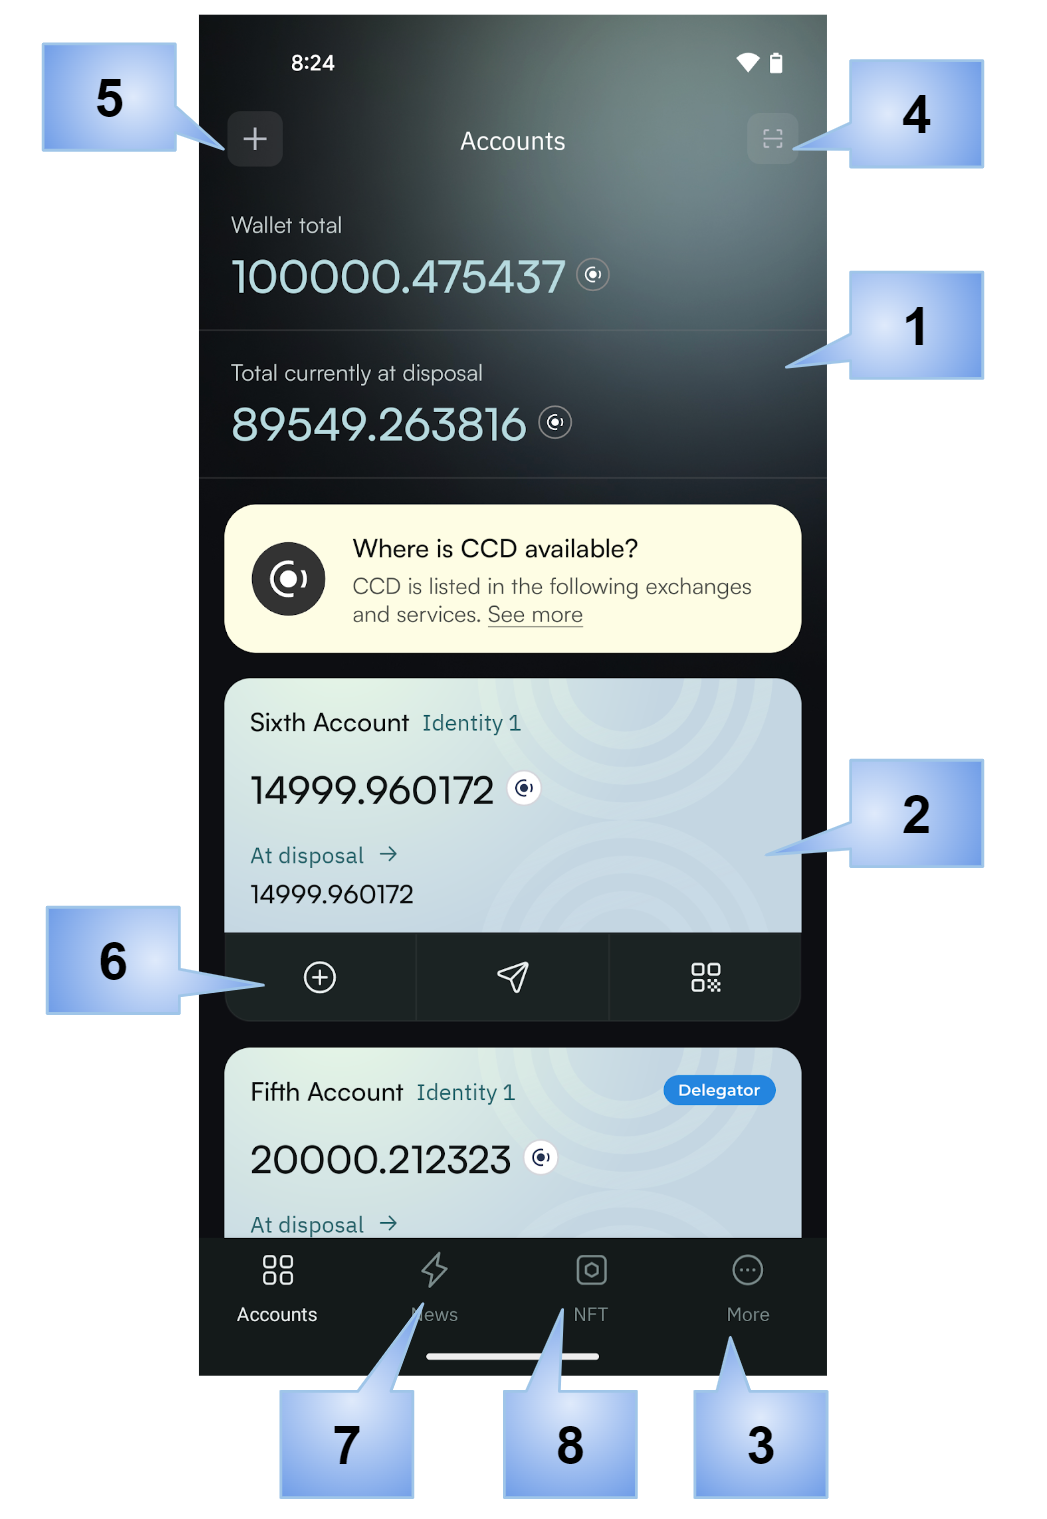
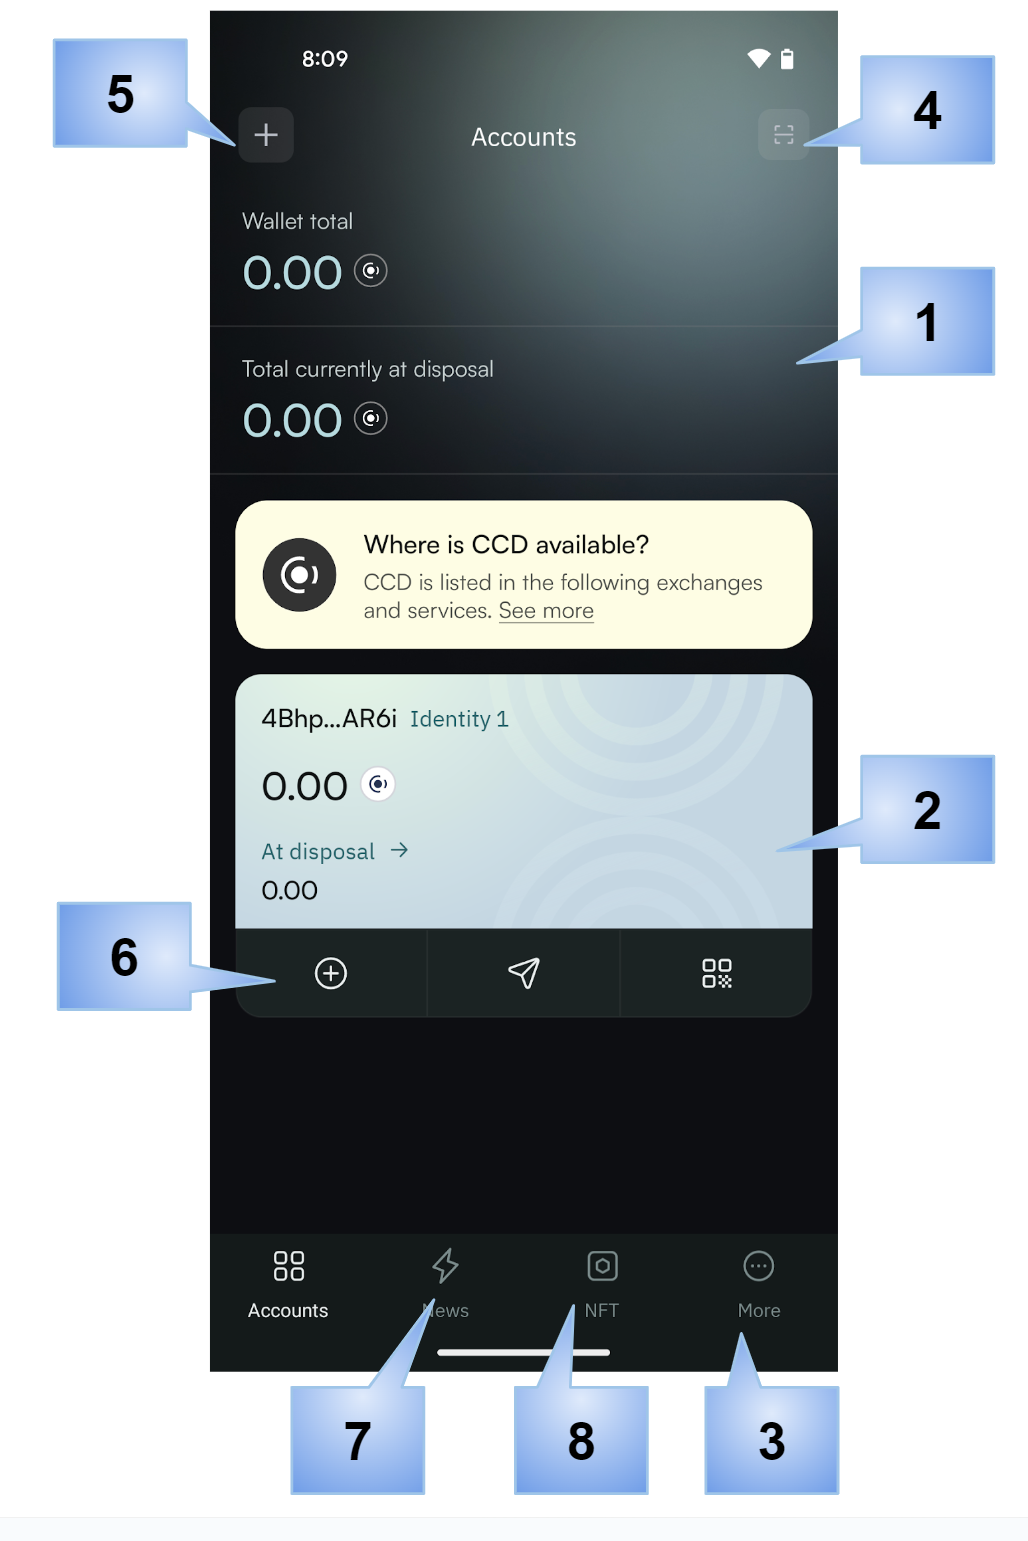
Further addings to cryptox

Changed region(s): [[0.0311, 0.0, 0.965, 0.9901], [0.4669, 0.0619, 0.5603, 0.1238]]

diff --git a/source/mainnet/net/guides/setup-cryptox-wallet.rst b/source/mainnet/net/guides/setup-cryptox-wallet.rst
@@ -18,84 +18,85 @@ Get started
 
 #. Install the |cryptox| on an Android or iOS phone. See :ref:`Downloads<downloads-cryptox>`.
 
-#. Open the |cryptox|; read and accept the Terms and Conditions.
+#. Open the |cryptox|. Read and accept the Terms and Conditions. Tap **Get started**.
 
-#. Create a six-digit passcode or use a full password.
+   .. image:: ../images/cryptox/cryptox-install1.png
+      :width: 50%
+      :alt: screen with terms and conditions
 
-   .. image:: ../images/mobile-wallet-gen2/create-passcode.png
+#. Decide whether or not to allow activity tracking. This tracking only applies to the general app usage, not funds, transactions or any personal data.
+
+   .. image:: ../images/cryptox/cryptox-install1b.png
+      :width: 50%
+      :alt: screen with activate account
+
+
+#. Tap **Activate Account**.
+
+   .. image:: ../images/cryptox/cryptox-install2.png
+      :width: 50%
+      :alt: screen with activate account
+
+#. Tap **Create wallet**.
+
+
+   .. image:: ../images/cryptox/cryptox-install4.png
+      :width: 50%
+      :alt: screen with create wallet
+
+#. Create a six-digit passcode or use a full password. Repeat passcode or password.
+
+   .. image:: ../images/cryptox/cryptox-install5.png
       :width: 50%
       :alt: screen with keypad to enter passcode
 
 
+#. Now you see your seed phrase which is the access key to all the funds in your wallet.
 
-Secret recovery phrase
-======================
+   You can either write it down, make a digital copy, or take a screenshot of it.
+   In either case, make sure to keep it somewhere safe in case you need to recover your wallet.
 
-Now you must write down and confirm your :term:`secret recovery phrase`. It is important to keep this recovery phrase in a safe location in case you need to :ref:`recover your wallet<recover-wallet>`.
+   When done, check the confirmation box and tap **Continue**.
 
-#. Tap **Set up a fresh wallet**.
-
-   .. image:: ../images/mobile-wallet-gen2/choice-start.png
+   .. image:: ../images/cryptox/cryptox-install6.png
       :width: 50%
-      :alt: screen with information about setup and options to create a new wallet or recover wallet
+      :alt: screen with information about saving seed phrase
 
-#. Tap on the screen to view your secret recovery phrase. Write down all 24 words in the exact order in which they are shown.
+#. Now you must submit a request for an identity verification. Select an identity provider.
 
-   .. image:: ../images/mobile-wallet-gen2/recovery-phrase-pre.png
+   .. image:: ../images/cryptox/cryptox-install7.png
       :width: 50%
-      :alt: screen with hidden secret recovery phrase
+      :alt: screen with identity providers
 
-#. Place a check in the box **I confirm I have written down my 24 word secret recovery phrase**.
-
-   .. image:: ../images/mobile-wallet-gen2/recovery-phrase-shown.png
-      :width: 50%
-      :alt: screen with 24 word recovery phrase shown and confirmation checkbox
-
-#. On the next screens select the word to enter in each index to confirm your secret recovery phrase. Once correct, tap **Continue**.
-
-   .. image:: ../images/mobile-wallet-gen2/recovery-phrase-confirm.png
-      :width: 50%
-      :alt: screen to enter recovery phrase so you can confirm that you have it
-
-Request your identity and account
-=================================
-
-Having set up your passcode and your secret recovery phrase, you must then submit a request for an identity and an account.
-
-Request identity
-----------------
-
-#. Read the next page in the app, shortly explaining the Concordium concepts of initial account and identity. Tap **Continue**.
-
-#. Select a third party :term:`identity provider` from the list. Enter your wallet passcode when prompted. An external web page opens within the app.
-
-   .. image:: ../images/mobile-wallet/MW11.png
-      :width: 50%
-      :alt: screen with option to select identity provider
+#. Enter your passcode or password when prompted. An external web page opens within the app.
 
 #. Enter the information requested by the third-party identity provider. The information might vary depending on the identity provider.
    However, they will ask you to provide photos of identification documents and a selfie.
 
-#. When you have submitted the information to the identity provider, you will have a pending initial account and identity in your app.
-   The verification or rejection is usually retrieved from the identity provider within minutes, but check your app frequently to retrieve
+#. When you have submitted the information to the identity provider, the verification or rejection is usually retrieved from the identity provider within minutes, but check your app frequently to retrieve
    the result. The result can be retrieved for up to seven days.
 
-   .. image:: ../images/mobile-wallet/MW12.png
+   If your identity request is rejected, you see a message. Tap **Make new identity request** to create a new identity request. You can choose another identity provider.
+
+#. Once the identity provider has approved your verification request, you can create your first account.
+
+   .. image:: ../images/cryptox/cryptox-install8.png
       :width: 50%
-      :alt: screen shown after identity verification information is submitted and request is pending
+      :alt: screen shown after identity verification information is accepted.
 
-If your identity request is rejected, you see a message. Tap **Make new identity request** to create a new identity request. You can choose another identity provider.
+#. Tap **Create account** and enter your passcode or password when prompted.
 
-Request account
----------------
-
-Once the identity provider has verified your identity you can submit an account. You can see when your identity has been verified by the green check next to the identity name.
-
-#. Tap **Submit account**. Enter your wallet passcode when prompted.
-
-   .. image:: ../images/mobile-wallet-gen2/submit-acct.png
+   .. image:: ../images/cryptox/cryptox-install9.png
       :width: 50%
-      :alt: screen shown after selecting to create account
+      :alt: screen shown after identity verification information is accepted.
+
+#. Your new account will be visible in the Accounts list.
+
+   .. image:: ../images/cryptox/cryptox-install10.png
+      :width: 50%
+      :alt: screen showing first account in list
+
+If you want to, you can :ref:`change the name of the account<change-mw-acct-name>`.
 
 Basic navigation
 ================
@@ -128,6 +129,7 @@ In the More screen |more| you have the following options.
 - Show my seed phrase: :ref:`show my seed phrase<show-seed-phrase>`
 - Update passcode and biometrics: :ref:`change your wallet passcode or activate biometrics<change-passcode-mw>`.
 
+In case you have created your wallet from a backup file, you will not have the **Show my seed phrase** option, but instead the options **Import** and **Export**.
 
 Account navigation
 ------------------

diff --git a/source/mainnet/net/guides/recover-wallet.rst b/source/mainnet/net/guides/recover-wallet.rst
@@ -5,17 +5,124 @@
 Recover your Wallet
 ===================
 
-In case you get a new device or need to restore your existing device, you can recover your identities, accounts, and keys with the seed phrase you wrote down during wallet setup.
+You may need to recover your wallet, e.g. if you've switched devices or lost access to your wallet. Recovering your wallet means restoring your identities, accounts, and keys. This can be done either through your seed phrase or a backup file, depending on the specific wallet app you're using.
 
 .. Note::
 
     You cannot recover testnet wallets on mainnet, or vice versa.
 
-.. Note::
 
-    The recovery process for Desktop Wallet and |mw-gen1| is different. For information about these, see :ref:`Make a backup of identities, accounts, and addresses<export-import>`.
+.. dropdown:: |cryptox| - recover with seed phrase
 
-.. dropdown:: |cryptox|
+    |cryptox| offers two recovery methods: using a seed phrase or using an exported backup file. This is the procedure for recovering with seed phrase.
+
+    #. After installing or reinstalling the |cryptox| app, open the app.
+
+    #. On the Welcome screen, read and accept Terms and Conditions and Pricacy Policy and tap **Get started**.
+
+        .. image:: ../images/cryptox/cryptox-recover-wallet1.png
+            :width: 40%
+
+    #. Decide whether or not to allow activity tracking. This tracking only applies to the general app usage, not funds, transactions or any personal data.
+
+        .. image:: ../images/cryptox/cryptox-recover-wallet2.png
+            :width: 40%
+
+    #. You now have the opportunity to watch a tutorial video on Tap **Activate account**.
+
+        .. image:: ../images/cryptox/cryptox-recover-wallet3.png
+            :width: 40%
+
+    #. Tap **Import wallet**.
+
+        .. image:: ../images/cryptox/cryptox-recover-wallet4.png
+            :width: 40%
+
+    #. Enter and then re-enter a 6-digit passcode for your wallet.
+
+        .. image:: ../images/cryptox/cryptox-recover-wallet4b.png
+            :width: 40%
+
+    #. Tap **Use seed phrase**
+
+        .. image:: ../images/cryptox/cryptox-recover-wallet5.png
+            :width: 40%
+
+    #. Enter each word of your seed phrase in the correct order. When you start typing, possible words appear for you to select.
+
+       If you have a copy of your seed phrase, you can also tap **Paste your seed phrase** to paste it from your clipboard.
+
+        .. image:: ../images/cryptox/cryptox-recover-wallet6.png
+            :width: 40%
+
+    #. Once the words are correct, tap **Recover** to submit the recovery request to the identity provider(s).
+
+        .. image:: ../images/cryptox/cryptox-recover-wallet7.png
+            :width: 40%
+
+    #. It may take a little while for recovery to complete.
+
+        .. image:: ../images/cryptox/cryptox-recover-wallet8.png
+            :width: 40%
+
+
+    #. Your wallet has now been restored on |cryptox|.
+
+        .. image:: ../images/cryptox/cryptox-recover-wallet9.png
+            :width: 40%
+
+
+    .. Note::
+
+        When you recover your wallet, any account names that you might have edited will be reset to the account number. You can :ref:`edit the account name<change-mw-acct-name>`, if desired.
+
+
+.. dropdown:: |cryptox| - recover with backup file
+
+    |cryptox| offers two recovery methods: using a seed phrase or using an exported backup file. This is the procedure for recovering with backup file.
+
+    #. After installing or reinstalling the |cryptox| app, open the app.
+
+    #. On the Welcome screen, read and accept Terms and Conditions and Pricacy Policy and tap **Get started**.
+
+        .. image:: ../images/cryptox/cryptox-recover-wallet1.png
+            :width: 40%
+
+    #. Decide whether or not to allow activity tracking. This tracking only applies to the general app usage, not funds, transactions or any personal data.
+
+        .. image:: ../images/cryptox/cryptox-recover-wallet2.png
+            :width: 40%
+
+    #. Tap **Activate account**.
+
+        .. image:: ../images/cryptox/cryptox-recover-wallet3.png
+            :width: 40%
+
+    #. Tap **Import wallet**.
+
+        .. image:: ../images/cryptox/cryptox-recover-wallet4.png
+            :width: 40%
+
+    #. Enter and then re-enter a 6-digit passcode for your wallet.
+
+        .. image:: ../images/cryptox/cryptox-recover-wallet4b.png
+            :width: 40%
+
+    #. Tap **Use exported file **
+
+        .. image:: ../images/cryptox/cryptox-recover-wallet5.png
+            :width: 40%
+
+    #. Enter the password you created when exporting the backup file. Tap **Continue**.
+
+        .. image:: ../images/cryptox/cryptox-recover-wallet10.png
+            :width: 40%
+
+    #. You have now imported your wallet to |cryptox|. Tap **Okay** to go to the Accounts list.
+
+        .. image:: ../images/cryptox/cryptox-recover-wallet11.png
+            :width: 40%
+
 
 .. dropdown:: |bw|
 
@@ -83,6 +190,8 @@ In case you get a new device or need to restore your existing device, you can re
 .. dropdown:: |mw-gen1|
 
     Recovery of |mw-gen1| requires a valid backup file. For more information about this process, see :ref:`backup and restore<mobile-wallet-recover>`.
+
+    If you want to recover your |mw-gen1| wallet to |cryptox|, se the description above for recovering on |cryptox| with a backup file.
 
 .. dropdown:: Desktop Wallet
 

diff --git a/source/mainnet/net/guides/deciding-wallet.rst b/source/mainnet/net/guides/deciding-wallet.rst
@@ -10,11 +10,11 @@ Why you need a wallet
 
 You need a :term:`wallet` to interact with the Concordium blockchain and manage your CCD. Currently, the following wallets are available:
 
-    - Concordium Desktop Wallet
-    - |bw|
-    - |mw-gen1|
-    - |mw-gen2|
-    - |cryptox|
+- Concordium Desktop Wallet
+- |bw|
+- |mw-gen1|
+- |mw-gen2|
+- |cryptox|
 
 
 The wallets are developed by Concordium Software and can only be used to hold :term:`CCD`, the native token of the Concordium blockchain. You can't use these wallets for any other cryptocurrencies.
@@ -22,16 +22,20 @@ The wallets are developed by Concordium Software and can only be used to hold :t
 Portability limits between wallets
 =========================================================
 
-Before you decide which wallet to use, notice this: Due to differences in private key handling, identities and accounts cannot be exchanged between the Desktop Wallet and any of the other wallet types. The same applies between |mw-gen1| and |mw-gen2|. 
-For details regarding private key handling :ref:`see below<store-private-keys>`.
+Before you decide which wallet to use, notice this: Due to differences in private key handling, there are limitations on exchanging identities and accounts between certain wallet types.
 
-You can exchange identities and accounts between the |bw| and the |mw-gen2|.
+Identities and accounts cannot be exchanged between:
 
-The |cryptox| supports importing identities and accounts from the |mw-gen2|, |mw-gen1|, and |bw|.
+- the Desktop Wallet and any of the other wallet types.
+- |mw-gen1| and |mw-gen2|.
+
+Identities and accounts *can* be exchanged between:
+
+- |bw| and the |mw-gen2|.
+
+|cryptox| supports importing identities and accounts from the |mw-gen2|, |mw-gen1|, and |bw|.
 
 You can always send CCD from one wallet to another.
-
-Considering the above, carefully select your wallet before creating identities and accounts.
 
 Which wallet is best for you?
 =============================

diff --git a/source/mainnet/net/guides/import-export-file.rst b/source/mainnet/net/guides/import-export-file.rst
@@ -1,0 +1,26 @@
+.. include:: ../../variables.rst
+.. _import-export-file:
+
+====================
+Import/export file
+====================
+
+Your seed phrase is the access key to all the funds in your wallet. It is important that you store a copy of it in a safe location.
+
+
+.. dropdown:: |cryptox|
+
+    #. Tap **More**.
+
+    #. Tap **Show my seed phrase**.
+
+     .. image:: ../images/cryptoX/cryptoX-copy-seed-phrase.png
+                    :width: 50%
+                    :alt: screen with seed phrase
+
+
+    #. Tap **Show seed phrase**.
+
+    #. Enter your passcode when prompted.
+
+    #. Now you can tap **Copy to clipboard** to copy the seed phrase to the clipboard.

diff --git a/source/mainnet/net/guides/manage-wallets-lp.rst b/source/mainnet/net/guides/manage-wallets-lp.rst
@@ -18,3 +18,4 @@ If you need to know how to send CCDs, recover your wallet on a new device, or mo
     address-book
     transaction-report
     show-seed-phrase
+    import-export-file
